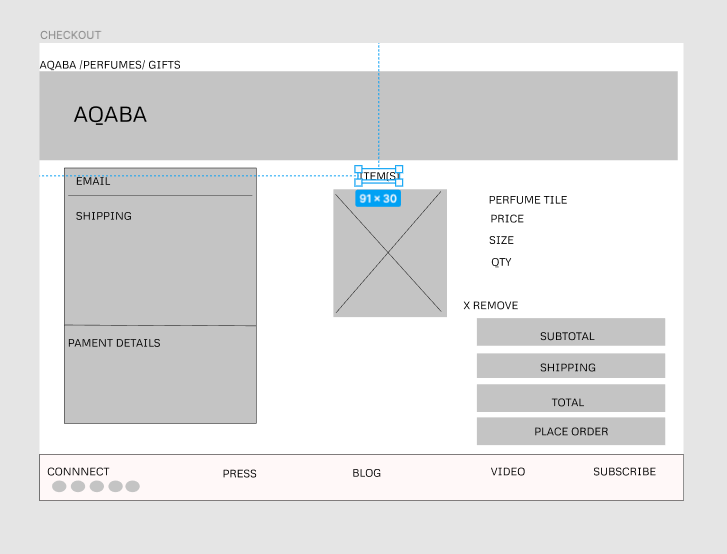
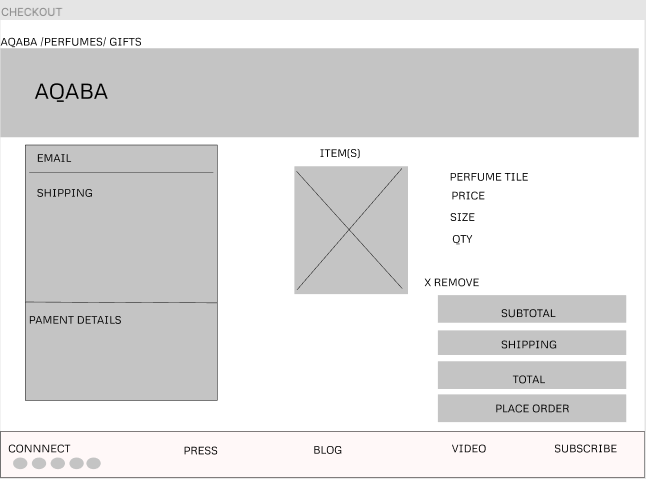
replaced wireframes with cleaner shots

diff --git a/README.md b/README.md
@@ -19,7 +19,7 @@
 
 ### Wireframes:
 
-![home](./public/home.png)
+![home](./public/assets/home.png)
 
 ![perfumes](./public/assets/perfumes.png)
 
